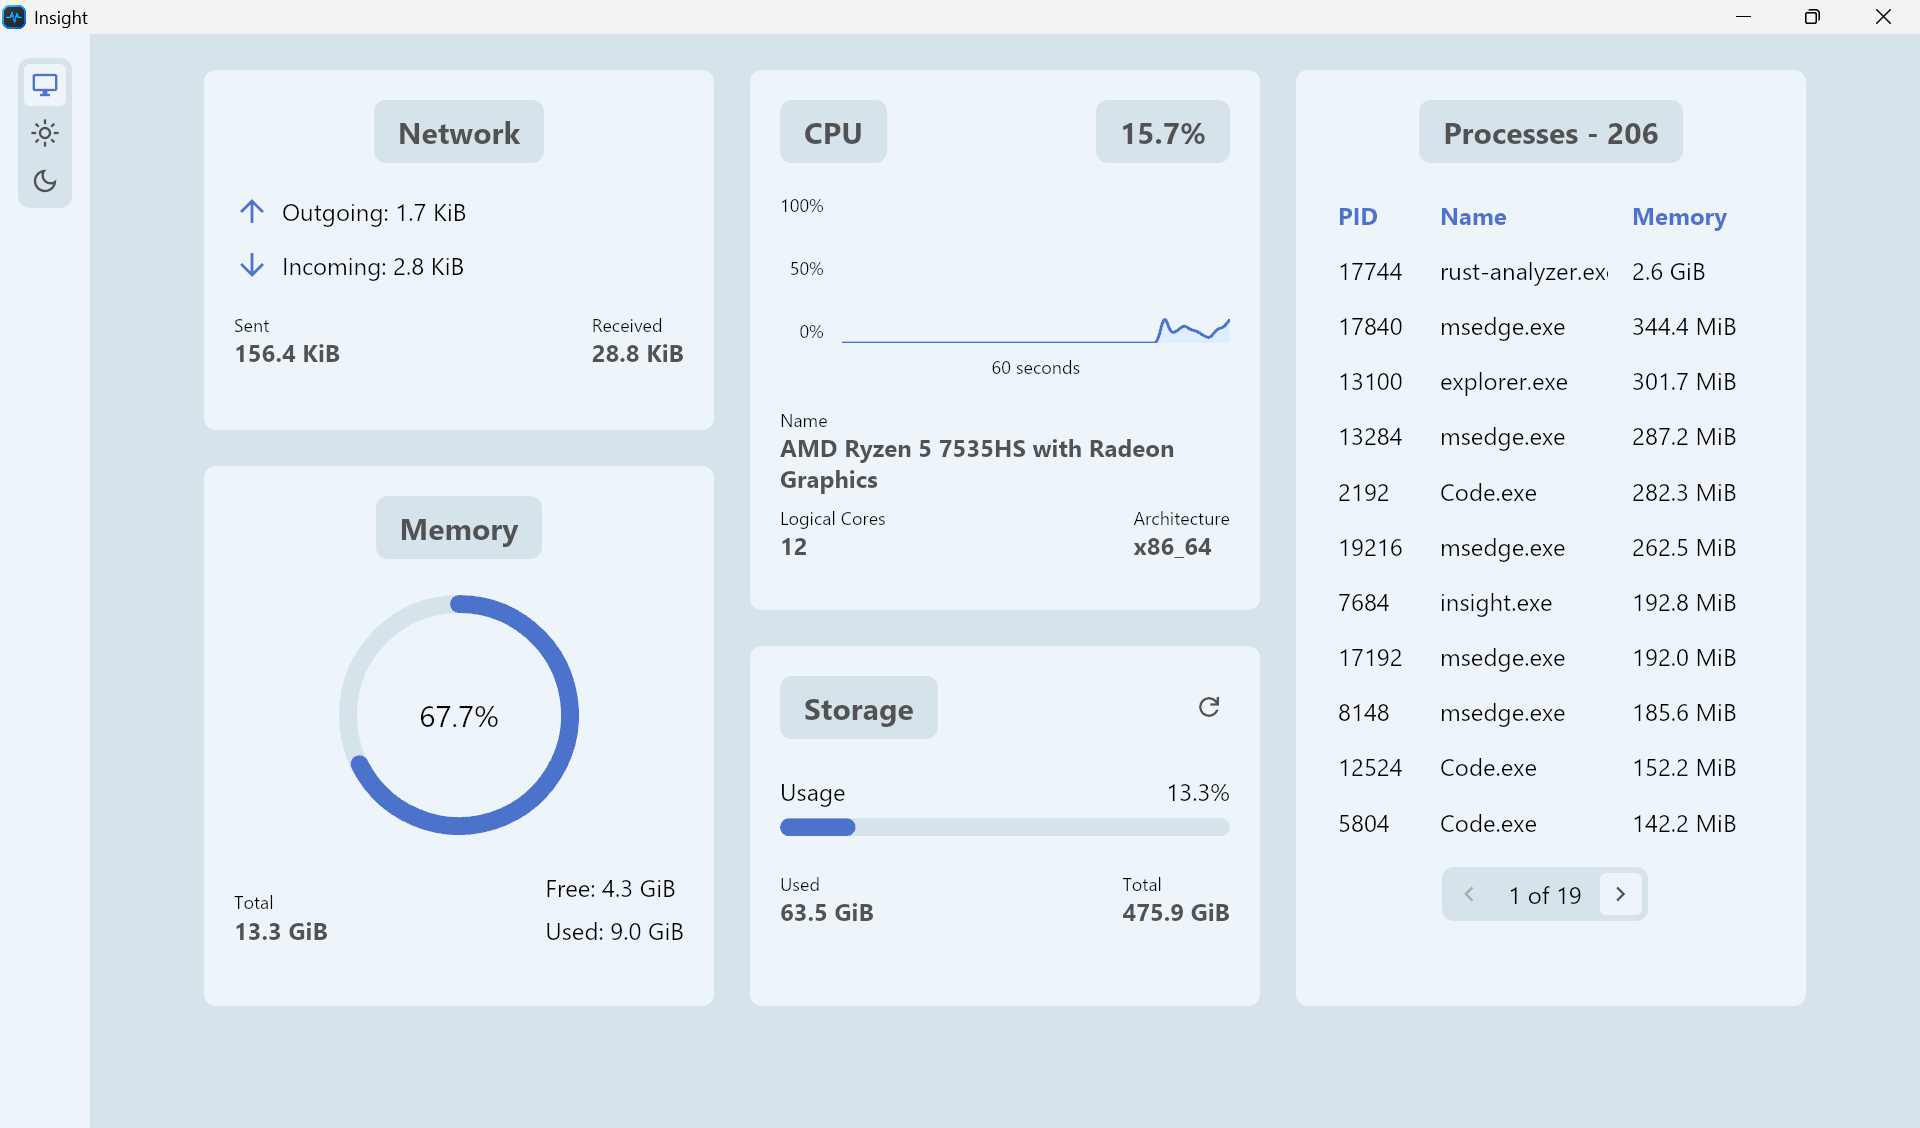
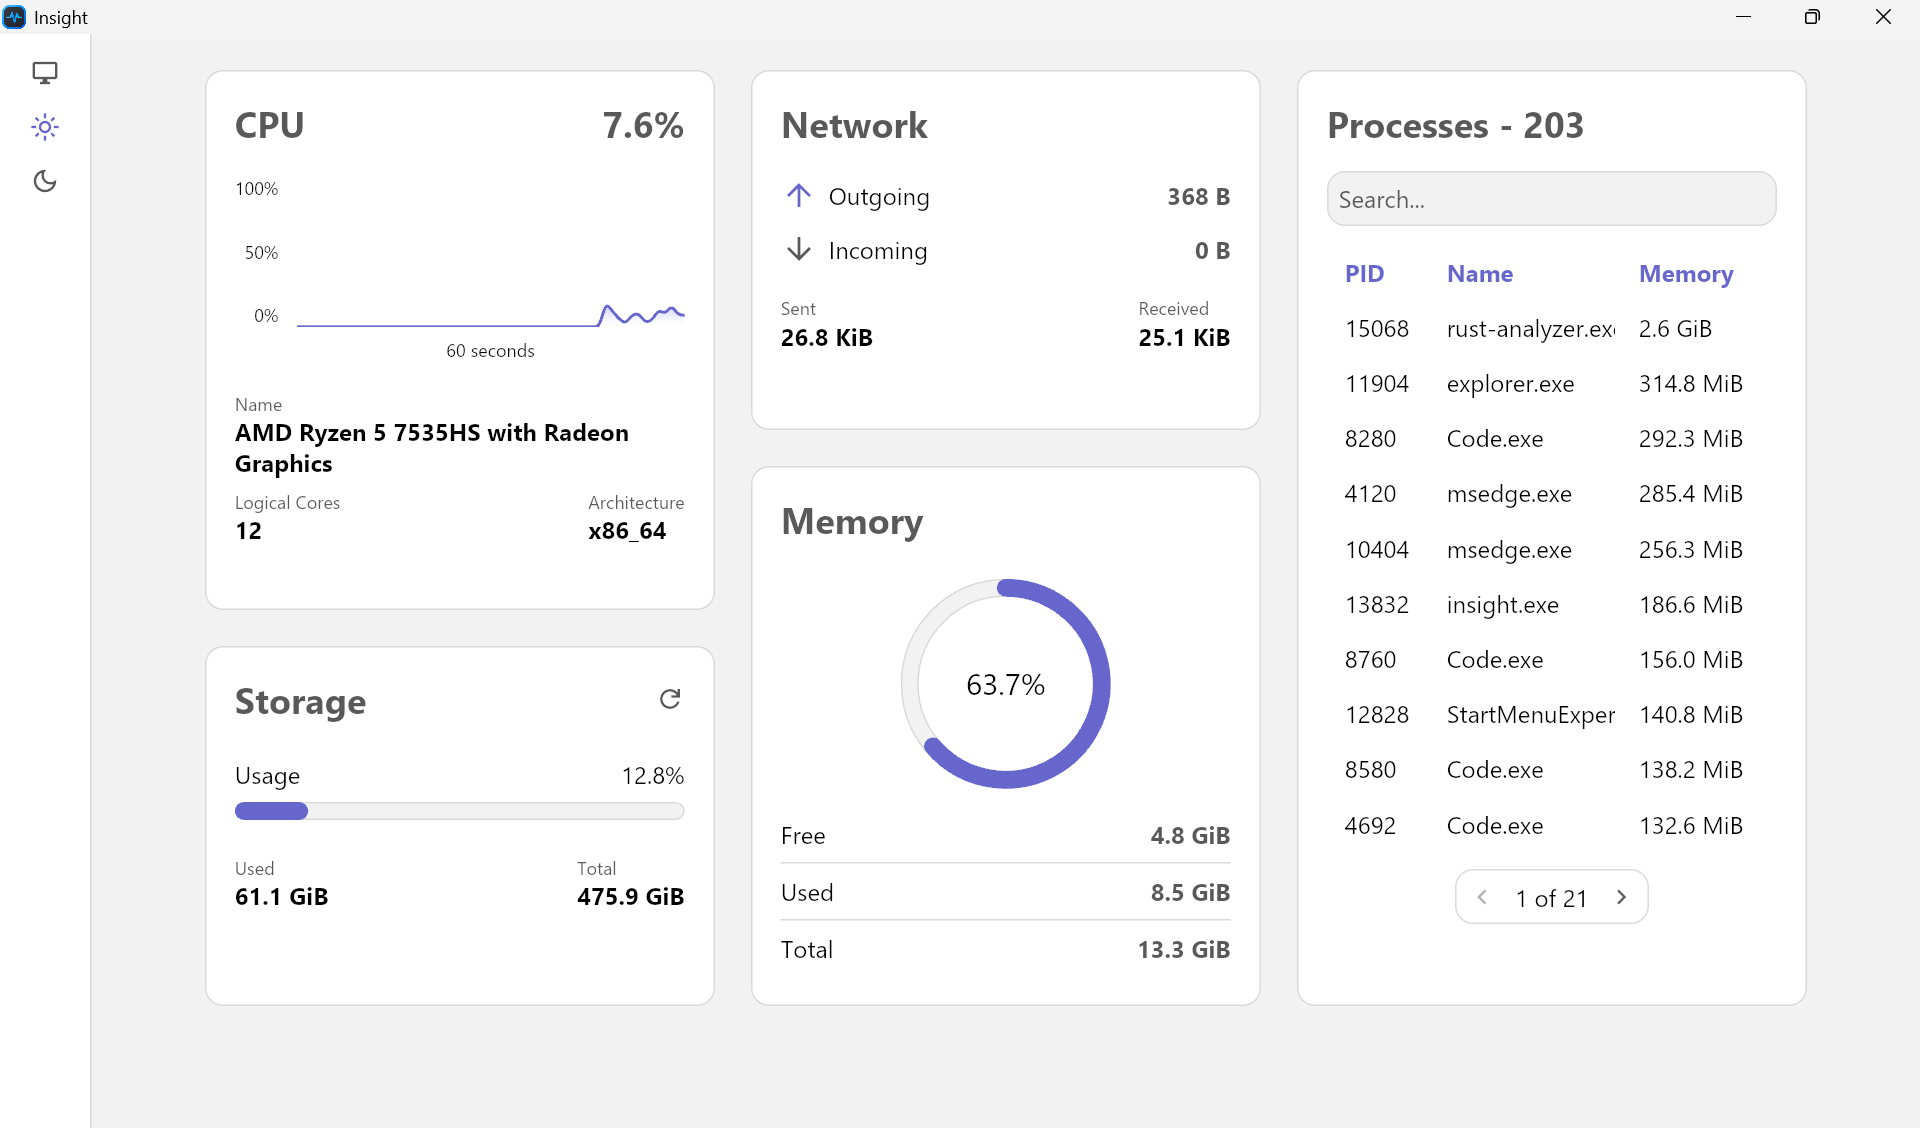
feat(ui): improve dashboard layout and process navigation
- bold inline values and prevent label wrapping
- add separators to memory statistics
- simplify section header alignment
- wrap process pagination in a bordered container
- adjust process pagination to 10 items per page
- refine light and dark disabled color palette
- update screenshots to reflect the UI changes

diff --git a/src/sections/processes.rs b/src/sections/processes.rs
@@ -7,11 +7,11 @@ use crate::{
 };
 
 use iced::{
-    Background, Border, Element, Font, Length, Theme,
     alignment::{self, Vertical},
     font::Weight,
     padding,
-    widget::{Space, column, container, row, text, text_input, tooltip},
+    widget::{column, container, row, text, text_input, tooltip},
+    Background, Border, Element, Font, Length, Theme,
 };
 
 pub fn view<'a>(insight: &'a Insight) -> Element<'a, Message> {
@@ -69,29 +69,38 @@ pub fn view<'a>(insight: &'a Insight) -> Element<'a, Message> {
     ]
     .spacing(8);
 
-    let navigation = row![
-        button::view(
-            components::svg::view(include_bytes!("../../assets/icons/left_arrow.svg").as_ref()),
-            (insight.processes.page > 1).then_some(Message::Previous),
-            false
-        ),
-        text(format!("{} of {}", insight.processes.page, pages)).wrapping(text::Wrapping::None),
-        button::view(
-            components::svg::view(include_bytes!("../../assets/icons/right_arrow.svg").as_ref()),
-            (insight.processes.page < pages).then_some(Message::Next),
-            false
-        ),
-    ]
-    .align_y(Vertical::Center)
-    .spacing(12);
+    let navigation = container(
+        row![
+            button::view(
+                components::svg::view(include_bytes!("../../assets/icons/left_arrow.svg").as_ref()),
+                (insight.processes.page > 1).then_some(Message::Previous),
+                false
+            ),
+            text(format!("{} of {}", insight.processes.page, pages)).wrapping(text::Wrapping::None),
+            button::view(
+                components::svg::view(
+                    include_bytes!("../../assets/icons/right_arrow.svg").as_ref()
+                ),
+                (insight.processes.page < pages).then_some(Message::Next),
+                false
+            ),
+        ]
+        .align_y(Vertical::Center)
+        .spacing(12),
+    )
+    .padding(8.0)
+    .style(move |theme| {
+        container::Style::default().border(
+            Border::default()
+                .rounded(12.0)
+                .width(1)
+                .color(Palette::from(theme).border),
+        )
+    });
 
     card::view(
         column![
-            row![
-                Space::new().width(Length::Fill),
-                components::title::view(format!("Processes - {}", process_count)),
-                Space::new().width(Length::Fill),
-            ],
+            components::title::view(format!("Processes - {}", process_count)),
             column![
                 text_input("Search...", &insight.processes.search_term)
                     .on_input(Message::Input)
@@ -138,22 +147,20 @@ pub fn view<'a>(insight: &'a Insight) -> Element<'a, Message> {
 }
 
 fn build_column<'a>(name: &'a str, items: Vec<String>, width: f32) -> Element<'a, Message> {
-    let mut column = column![
-        container(
-            text(name)
-                .wrapping(text::Wrapping::None)
-                .font(Font {
-                    weight: Weight::Bold,
-                    ..Font::DEFAULT
-                })
-                .style(move |theme: &Theme| text::Style {
-                    color: Some(Palette::from(theme).accent),
-                }),
-        )
-        .clip(true)
-        .width(Length::Fixed(width))
-        .padding(8)
-    ];
+    let mut column = column![container(
+        text(name)
+            .wrapping(text::Wrapping::None)
+            .font(Font {
+                weight: Weight::Bold,
+                ..Font::DEFAULT
+            })
+            .style(move |theme: &Theme| text::Style {
+                color: Some(Palette::from(theme).accent),
+            }),
+    )
+    .clip(true)
+    .width(Length::Fixed(width))
+    .padding(8)];
 
     for item in items {
         column = match name {

diff --git a/src/sections/memory.rs b/src/sections/memory.rs
@@ -1,23 +1,20 @@
 use iced::{
     Element, Length, alignment, padding,
-    widget::{Space, column, row},
+    widget::{column, rule},
 };
 
 use crate::{
     app::Message,
     components::{self, card, donut},
     metrics::format_bytes,
+    palette::Palette,
     state::Insight,
 };
 
 pub fn view<'a>(insight: &'a Insight) -> Element<'a, Message> {
     card::view(
         column![
-            row![
-                Space::new().width(Length::Fill),
-                components::title::view("Memory".to_string()),
-                Space::new().width(Length::Fill),
-            ],
+            components::title::view("Memory".to_string()),
             column![
                 column![donut::view(insight.memory.used, insight.memory.total, 12.0)]
                     .width(Length::Fill)
@@ -27,7 +24,19 @@ pub fn view<'a>(insight: &'a Insight) -> Element<'a, Message> {
                         "Free",
                         format_bytes(insight.memory.total - insight.memory.used)
                     ),
+                    rule::horizontal(1).style(|theme| rule::Style {
+                        color: Palette::from(theme).border,
+                        radius: iced::border::Radius::new(0),
+                        fill_mode: rule::FillMode::Full,
+                        snap: false,
+                    }),
                     components::inline::view("Used", format_bytes(insight.memory.used)),
+                    rule::horizontal(1).style(|theme| rule::Style {
+                        color: Palette::from(theme).border,
+                        radius: iced::border::Radius::new(0),
+                        fill_mode: rule::FillMode::Full,
+                        snap: false,
+                    }),
                     components::inline::view("Total", format_bytes(insight.memory.total)),
                 ]
                 .spacing(8)

diff --git a/src/palette.rs b/src/palette.rs
@@ -28,7 +28,7 @@ impl Palette {
         border: Color::from_rgb(0.85, 0.85, 0.85),
         text: Color::from_rgb(0.00, 0.00, 0.00),
         muted: Color::from_rgb(0.35, 0.35, 0.35),
-        disabled: Color::from_rgb(0.6, 0.6, 0.6),
+        disabled: Color::from_rgb(0.7, 0.7, 0.7),
         scroller: Color::from_rgb(0.7, 0.7, 0.7),
         scroller_hovered: Color::from_rgb(0.65, 0.65, 0.65),
         accent: Color::from_rgb(0.4, 0.4, 0.8),
@@ -42,7 +42,7 @@ impl Palette {
         border: Color::from_rgb(0.15, 0.15, 0.15),
         text: Color::from_rgb(1.00, 1.00, 1.00),
         muted: Color::from_rgb(0.65, 0.65, 0.65),
-        disabled: Color::from_rgb(0.4, 0.4, 0.4),
+        disabled: Color::from_rgb(0.3, 0.3, 0.3),
         scroller: Color::from_rgb(0.1, 0.1, 0.1),
         scroller_hovered: Color::from_rgb(0.15, 0.15, 0.15),
         accent: Color::from_rgb(0.4, 0.4, 0.8),

diff --git a/src/components/inline.rs b/src/components/inline.rs
@@ -1,5 +1,6 @@
 use iced::{
-    Element, Length,
+    Element, Font, Length,
+    font::Weight,
     widget::{Space, row, text},
 };
 
@@ -7,13 +8,17 @@ use crate::{app::Message, palette::Palette};
 
 pub fn view<'a>(label: &'a str, value: String) -> Element<'a, Message> {
     row![
-        text(label.to_string())
+        text(String::from(label)).wrapping(text::Wrapping::None),
+        Space::new().width(Length::Fill),
+        text(value)
             .wrapping(text::Wrapping::None)
+            .font(Font {
+                weight: Weight::Bold,
+                ..Font::DEFAULT
+            })
             .style(|theme| text::Style {
                 color: Some(Palette::from(theme).muted)
             }),
-        Space::new().width(Length::Fill),
-        text(value).wrapping(text::Wrapping::None)
     ]
     .into()
 }

diff --git a/src/sections/network.rs b/src/sections/network.rs
@@ -13,11 +13,7 @@ use iced::{
 pub fn view<'a>(insight: &'a Insight) -> Element<'a, Message> {
     card::view(
         column![
-            row![
-                Space::new().width(Length::Fill),
-                title::view("Network".to_string()),
-                Space::new().width(Length::Fill),
-            ],
+            title::view("Network".to_string()),
             column![
                 row![
                     components::svg::view(

diff --git a/src/metrics.rs b/src/metrics.rs
@@ -54,7 +54,7 @@ pub fn update_processes(insight: &mut Insight) {
         .list
         .sort_by_key(|p2| std::cmp::Reverse(p2.memory));
 
-    let pages = insight.processes.list.len().div_ceil(11).max(1);
+    let pages = insight.processes.list.len().div_ceil(10).max(1);
     if insight.processes.page > pages {
         insight.processes.page = pages;
     }
